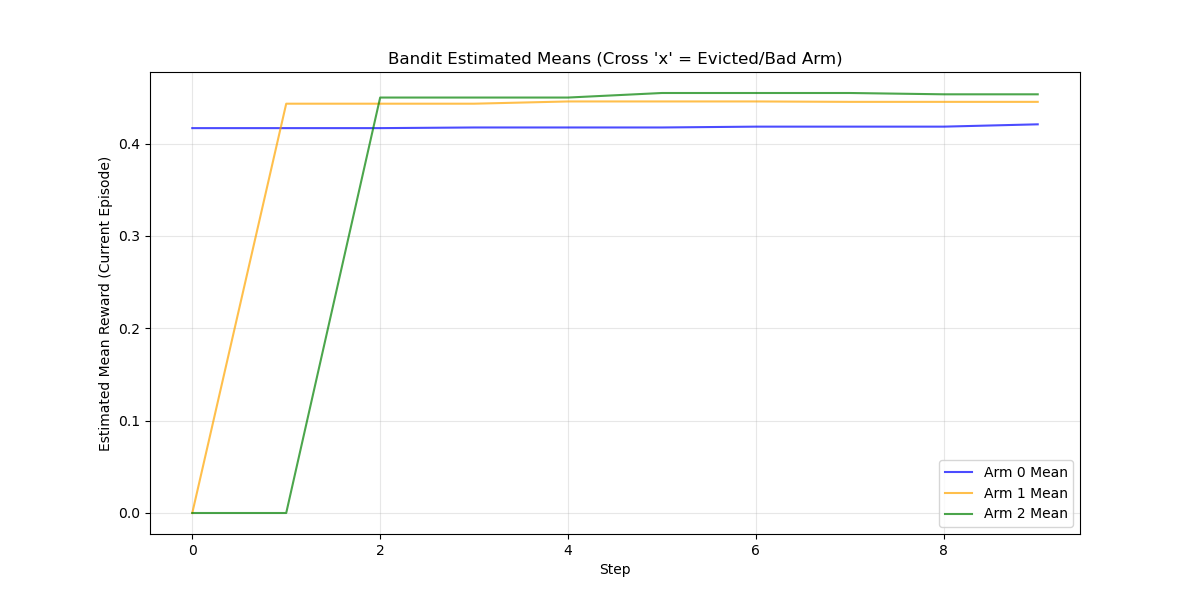
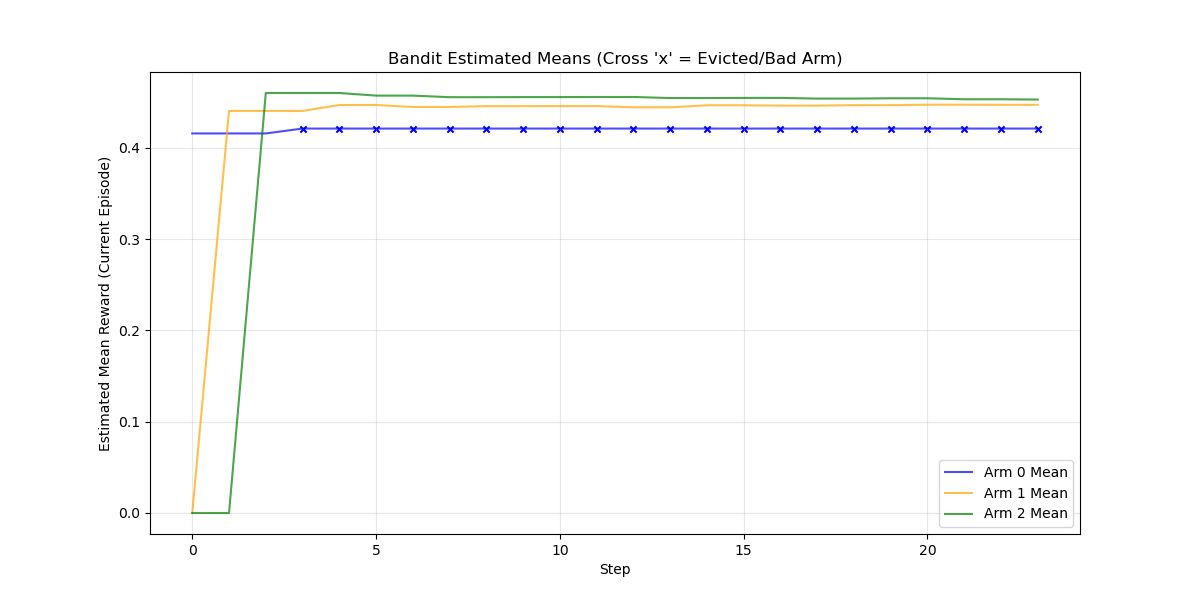
Update on dandit info to save

diff --git a/Lightsaber_X/simulate.py b/Lightsaber_X/simulate.py
@@ -25,7 +25,7 @@ from typing import Any, Dict, Optional, Union
 PathLike = Union[str, pathlib.Path]
 
 # --- Configuration Constants ---
-NUM_STEPS = 10 # Total simulation steps (batches)
+NUM_STEPS = 1000 # Total simulation steps (batches)
 REGIME_SWITCH_PROB = 0.2 
 SWITCH_INTERVAL = 50 
 
@@ -172,7 +172,7 @@ def main(argv):
     # 2. Initialize Bandit
     # 3 arms (C0, C1, C2)
     # Horizon = NUM_STEPS (batches)
-    bandit = AdSwitch(num_arms=3, horizon=NUM_STEPS, C1=4.0)
+    bandit = AdSwitch(num_arms=3, horizon=NUM_STEPS, C1=0.0001)
 
     # Tracking Data
     history = {
@@ -188,9 +188,9 @@ def main(argv):
     bandit_history = {
         'step': [],
         'episode_start': [],
-        'arm0_mean': [], 'arm0_n': [], 'arm0_good': [],
-        'arm1_mean': [], 'arm1_n': [], 'arm1_good': [],
-        'arm2_mean': [], 'arm2_n': [], 'arm2_good': []
+        'arm0_mean': [], 'arm0_n': [], 'arm0_good': [], 'arm0_prob': [],
+        'arm1_mean': [], 'arm1_n': [], 'arm1_good': [], 'arm1_prob': [],
+        'arm2_mean': [], 'arm2_n': [], 'arm2_good': [], 'arm2_prob': []
     }
     
     # Optimal mapping for Regret calculation
@@ -295,14 +295,15 @@ def main(argv):
             bandit_history[f'arm{arm_idx}_mean'].append(mu)
             bandit_history[f'arm{arm_idx}_n'].append(n)
             bandit_history[f'arm{arm_idx}_good'].append(is_good)
+            bandit_history[f'arm{arm_idx}_prob'].append(bandit.current_sampling_probs.get(arm_idx, 0.0))
 
         # Save last step detailed data
         if step == NUM_STEPS - 1:
             save_results_as_txt(results, simulation, output['out_directory'], step, regime_info['name'], controller_name)
 
-    # --- Plotting Summary ---
-    plot_summary(history)
-    save_bandit_stats(bandit_history)
+        # --- Plotting Summary ---
+        plot_summary(history)
+        save_bandit_stats(bandit_history)
 
 def plot_summary(history):
     steps = history['step']
@@ -349,7 +350,7 @@ def save_bandit_stats(bandit_history):
     df = pd.DataFrame(bandit_history)
     stats_file = 'data_output/bandit_internal_stats.csv'
     df.to_csv(stats_file, index=False)
-    print(f"Bandit internal stats saved to {stats_file}")
+    #print(f"Bandit internal stats saved to {stats_file}")
     
     # Plot Estimated Means
     plt.figure(figsize=(12, 6))
@@ -376,7 +377,7 @@ def save_bandit_stats(bandit_history):
     plt.legend()
     plt.grid(True, alpha=0.3)
     plt.savefig('data_output/bandit_estimated_means.png')
-    print("Bandit means plot saved to data_output/bandit_estimated_means.png")
+    #print("Bandit means plot saved to data_output/bandit_estimated_means.png")
 
 def save_stats_and_plots(history):
     """
@@ -401,7 +402,7 @@ def save_stats_and_plots(history):
             std = rewards.std()
             f.write(f"Regime: {regime:<20} | Controller: {controller:<20} | N={cnt:3d} | Mean Rw: {avg:.4f} | Std: {std:.4f}\n")
     
-    print(f"Statistics saved to {stats_file}")
+    #print(f"Statistics saved to {stats_file}")
 
     # 2. Histogram Plots
     # Create a figure with one subplot per Regime
@@ -431,7 +432,7 @@ def save_stats_and_plots(history):
         plt.tight_layout()
         hist_file = 'data_output/simulation_histograms.png'
         plt.savefig(hist_file)
-        print(f"Histograms saved to {hist_file}")
+        #print(f"Histograms saved to {hist_file}")
 
 if __name__ == '__main__':
     start_time = time.time()

diff --git a/Lightsaber_X/adswitch.py b/Lightsaber_X/adswitch.py
@@ -41,6 +41,12 @@ class AdSwitch(BanditAlgorithm):
         
         # Eviction statistics: stores (mu_tilde, delta_tilde) for evicted arms
         self.eviction_stats = {} 
+        
+        # Track sampling probabilities for diagnostics
+        self.current_sampling_probs = {arm: 0.0 for arm in range(self.num_arms)} 
+        
+        # Track sampling probabilities for diagnostics
+        self.current_sampling_probs = {arm: 0.0 for arm in range(self.num_arms)} 
 
     def _get_stats(self, arm, start_time, end_time):
         """
@@ -79,6 +85,10 @@ class AdSwitch(BanditAlgorithm):
         Eligible = GOOD arms U BAD arms with active sampling obligations.
         """
         self.t += 1 # Increment time step for the new round
+        
+        # Reset diagnostic probabilities
+        for arm in range(self.num_arms):
+            self.current_sampling_probs[arm] = 0.0
 
         # 1. Add checks for bad arms (sampling obligations)
         # For all a in BAD_t
@@ -99,6 +109,9 @@ class AdSwitch(BanditAlgorithm):
                 # Probability p_epsilon = epsilon * sqrt(l / (K * T * log T))
                 current_episode_idx = self.l + 1
                 prob = epsilon * math.sqrt(current_episode_idx / (self.num_arms * self.T * self.log_T))
+                
+                # Update diagnostic (store the max probability encountered for this arm)
+                self.current_sampling_probs[arm] = max(self.current_sampling_probs[arm], prob)
                 
                 if np.random.random() < prob:
                     n_samples = math.ceil(2 * (2**(2*i + 1)) * self.log_T)
